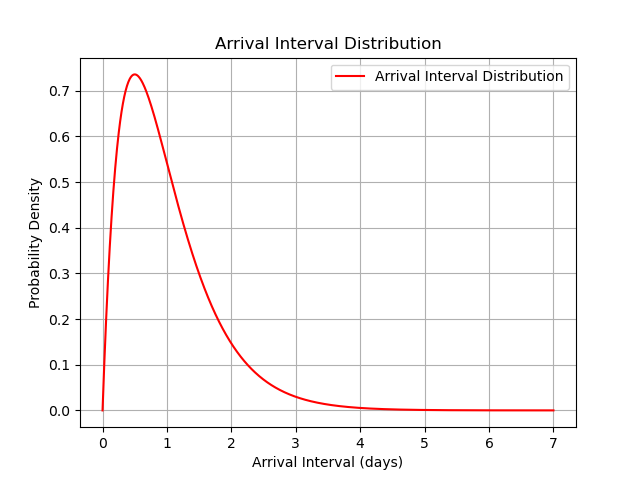
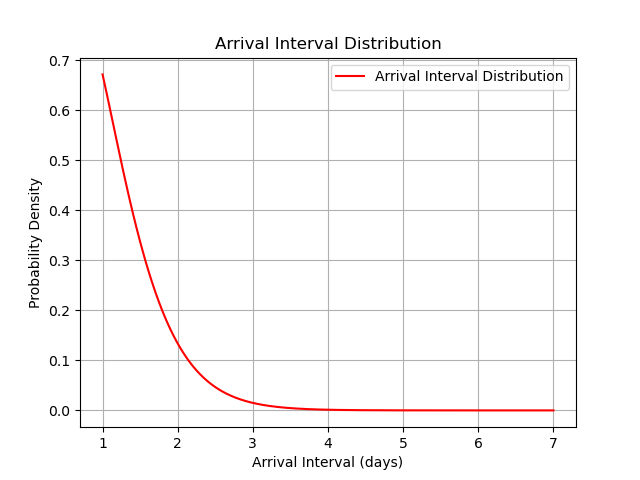
Plotting routine updated for arrival distr. to expo

diff --git a/Plotting_distributions.py b/Plotting_distributions.py
@@ -8,11 +8,11 @@ mean = 1
 max_val = 7
 
 # Gamma distribution: mean = shape * scale
-shape = 2  # Choose shape > 1 to ensure PDF(0) = 0
+shape = 3  # Choose shape > 1 to ensure PDF(0) = 0
 scale = mean / shape  # Solve for scale
 
 # Generate x values
-x = np.linspace(0, max_val, 1000)
+x = np.linspace(1, max_val, 1000)
 # Compute Gamma PDF
 y = gamma.pdf(x, a=shape, scale=scale)
 
